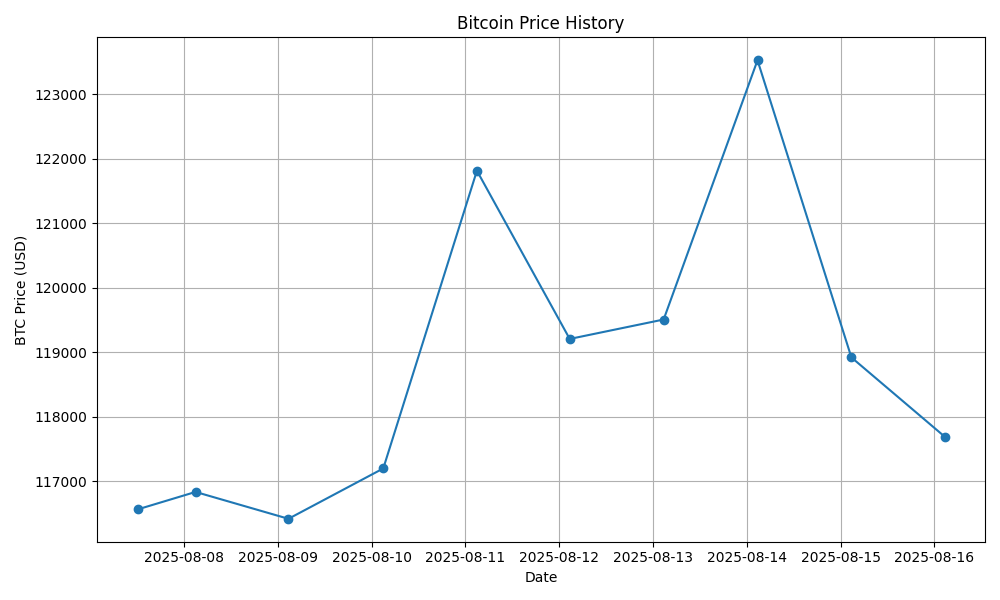
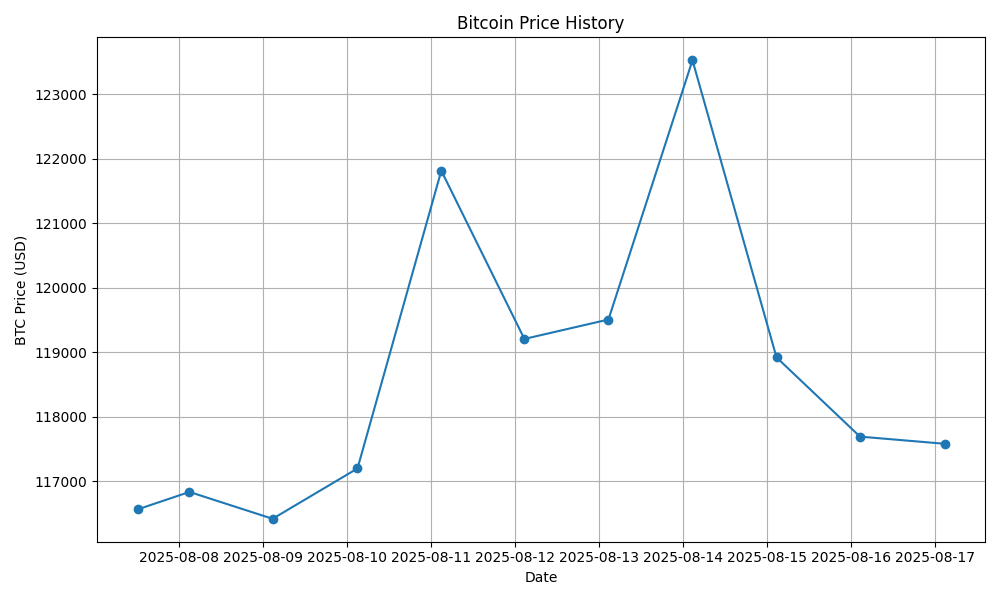
Update: BTC price, chart & README for 2025-08-17

diff --git a/README.md b/README.md
@@ -4,6 +4,6 @@ This project automatically fetches and charts the daily USD price of Bitcoin.
 
 ## Latest Stats
 
-## Latest price (USD): <!--BTC_PRICE-->117693<!--/BTC_PRICE-->
+## Latest price (USD): <!--BTC_PRICE-->117582<!--/BTC_PRICE-->
 
 ![BTC Historical Chart](btc_price_history.png)
